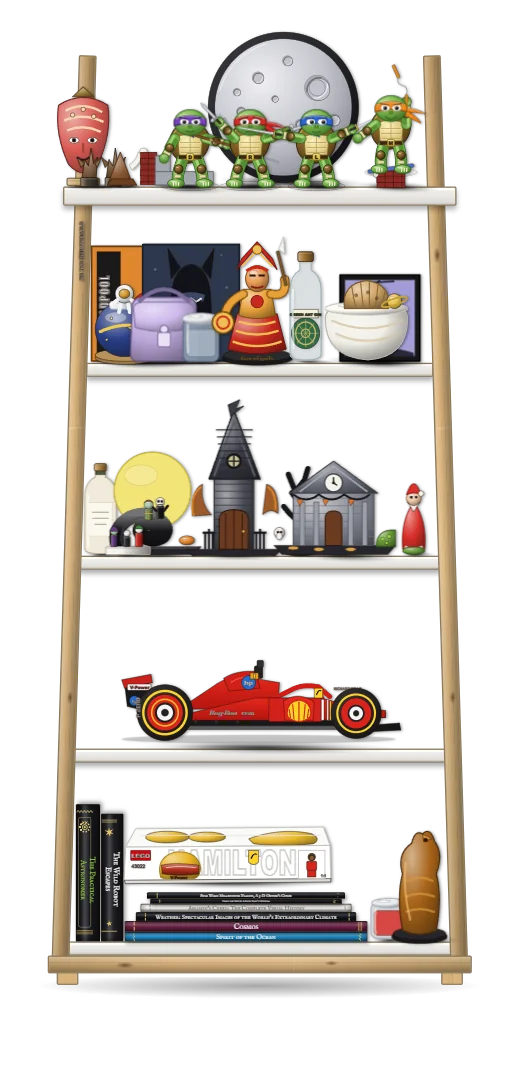
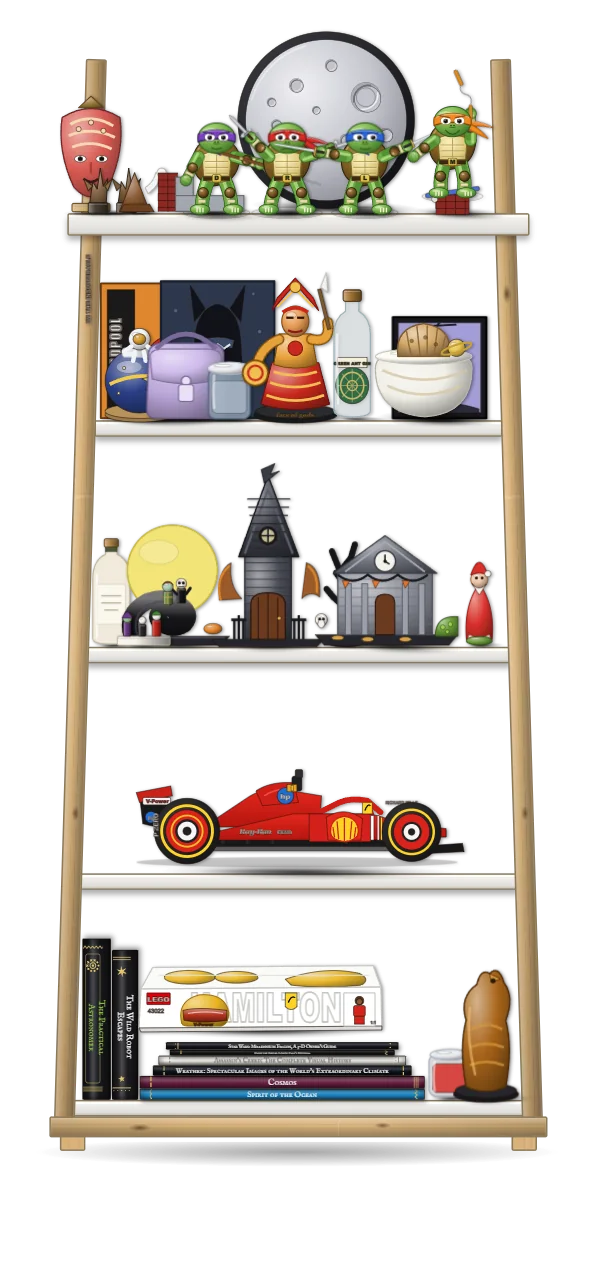
Dungeon v2.21.16
Library: an opened bookcase starts at 90% of the window height; Shelf 3 opens tucked, with depth; a visible scrollbar on the card.

Changed region(s): [[0.0608, 0.0, 0.9125, 0.9358]]

diff --git a/assets/js/library.js b/assets/js/library.js
@@ -310,7 +310,7 @@
           msg=document.getElementById('lib-msg'),info=document.getElementById('lib-info');
     const boxes=CASES.map((c,i)=>{const b=document.createElement('div');b.className='lb-box'+(c.wood?' lb-'+c.wood:'')+(c.taper?' lb-ladder':'');
       ['deep','books2','books1','books','cur'].forEach(k=>{const q=document.createElement('div');q.className='lb-plane lb-p-'+k;b.appendChild(q);b['_'+k]=q});caseEl.appendChild(b);return b});
-    let BOX=null,view='ring',focus=0,tucked=false,zs=1;
+    let BOX=null,view='ring',focus=0,tucked=CASES.some(c=>c.layers),zs=1;
     const ALL=DATA;ALL.forEach(b=>{b.a=b.a||'';b.p=b.p||'';b.n=b.n||'';b.an=b.an||'';b.pl=b.pl||'up';b.c2=b.c2||'#F4F2EC';b.cn=b.cn||'unsorted';b.g=b.g||'Unsorted'});
     const books=ALL.filter(b=>!b.pile),PILE={};
     const seenEmb=new Set();
@@ -440,6 +440,7 @@
       if(sendTo)a.href='mailto:'+sendTo+'?subject='+encodeURIComponent('A shelf arrangement for your library')+'&body='+encodeURIComponent('Here is how I would arrange your shelves:\n\n'+shareUrl())}
     try{manual=dec(localStorage.getItem('dungeon-library-manual'+KS)||'')}catch(err){manual=null}
 
+    const OPEN=1;
     let scale=1,zoom=1,caseW=600,caseH=600,current='shelved';
     /* A book's thickness is an estimate, so on the real shelves every row is stretched a little (never more than a third) until it
        reaches both ends: a shelf in a house has no free centimetre. setW changes a book that is already drawn. */
@@ -671,7 +672,7 @@
       Object.keys(by).forEach(k=>{const g=G[k];if(!g)return;const l=L[k]||{},list=by[k],right=l.restX!=null?l.restX-6:g.colW-PAD,left=PAD+3,R=right-left,spot={};
         const fr=list.filter(c=>!c.lean&&!c.po.back&&!c.po.on),bk=list.filter(c=>!c.lean&&c.po.back),on=list.filter(c=>!c.lean&&c.po.on);
         const fw=c=>c.po.fw||1,bw=c=>c.po.bw||.8,cap=c=>(c.po.w||170)*(tk?1.7:2.1);let x=left;
-        if(tk){const S=fr.reduce((a,c)=>a+fw(c),0)||1;fr.forEach(c=>{const W=Math.min(cap(c),R*fw(c)/S-4);rePile(c,W);c._ax=x;spot[c.pile]={x,w:c.w};x+=R*fw(c)/S});
+        bk.forEach(c=>{c.dy=(c.dy0||0)+(tk?12:0)});if(tk){const S=fr.reduce((a,c)=>a+fw(c),0)||1;fr.forEach(c=>{const W=Math.min(cap(c),R*fw(c)/S-4);rePile(c,W);c._ax=x;spot[c.pile]={x,w:c.w};x+=R*fw(c)/S});
           bk.forEach((c,i)=>{const h=spot[fr[i%Math.max(1,fr.length)].pile]||{x:left,w:R/2};rePile(c,h.w-8);c._ax=h.x+4;spot[c.pile]={x:c._ax,w:c.w}})}
         else{const all=fr.concat(bk),S=all.reduce((a,c)=>a+(c.po.back?bw(c):fw(c)),0)||1;all.forEach(c=>{const wt=c.po.back?bw(c):fw(c),W=Math.min(cap(c),R*wt/S-4);rePile(c,W);c._ax=x;spot[c.pile]={x,w:c.w};x+=R*wt/S})}
         on.forEach(c=>{const h=spot[c.po.on];if(!h)return;rePile(c,h.w*(c.po.w||140)/(PILE[c.po.on].w||170));c._ax=h.x+(h.w-c.w+8)/2;spot[c.pile]={x:c._ax,w:c.w}});
@@ -753,7 +754,7 @@
       geos=[];G={};sortSel.value=m.pat||m.own?'':mode;patSel.value=m.pat?mode:'';menus.forEach(x=>x.update());
       for(let c=0;c<CASES.length;c++){const n=CASES[c].n,st=!!CASES[c].straight,bx=boxes[c],LM=24,cx=LM,ty=STUFF,bot=ty+TB+n*ROW-30,D=DEPTH,
           colW=Math.max(ownW(c)?(CASES[c].w||420):(m.real&&hasL(c))?420:FIXW,...L.slice(CS[c],CS[c]+n).map(l=>l.width)),CW=colW+2*SIDE,BW=LM+CW+40;
-        BOX=bx;bx._w=BW;bx._h=STUFF+TB+n*ROW+FOOT+34+44;bx.style.width=BW+'px';bx.style.height=bx._h+'px';
+        bx.classList.toggle('lb-tucked',!!tk);BOX=bx;bx._w=BW;bx._h=STUFF+TB+n*ROW+FOOT+34+44;bx.style.width=BW+'px';bx.style.height=bx._h+'px';
         /* Real depth: two side panels and a board at every level run back from the front edge to the back panel */
         const tp=+CASES[c].taper||0,rowW=rw=>tp?colW*(1-tp*(n-1-rw)/Math.max(1,n-1)):colW,lean2=tp?Math.atan((colW*tp/2)/(bot-ty-8))/RAD:0;
         const side=x=>{const d=mk('side',x,ty+4,D,bot+20-ty);d.style.transformOrigin='0 50%';d.style.transform='rotateY(90deg)'},
@@ -826,7 +827,9 @@
     zr.onclick=resetZoom;
     function fit(){const vw=vp.clientWidth,col=(root.getBoundingClientRect&&root.getBoundingClientRect().width)||vw;let base;
       /* The landing fits the row of bookcases to the text column, a little wider if it must. An open bookcase is half the column wide. */
-      if(cols!==2)base=(vw-16)/caseW;else if(CTX.landing)base=Math.min(col*1.1,vw-32)/caseW;else base=Math.min((col/2)/(CTX.stdW||caseW),(vw-32)/caseW);
+      if(cols!==2)base=(vw-16)/caseW;else if(CTX.landing)base=Math.min(col*1.1,vw-32)/caseW;else base=Math.min((col/2)/(CTX.stdW||caseW),(vw-32)/caseW)*OPEN;
+      /* An opened bookcase starts with its whole height at 90% of the window (and never wider than the window), so every row can be seen; zooming then makes it as big as you like, and it grows past the sides. */
+      if(cols===2&&!CTX.landing)base=Math.min((vw-32)/caseW,window.innerHeight*.9/caseH);
       const s=base*zoom;scale=s;caseEl.style.width=caseW+'px';caseEl.style.height=caseH+'px';
       if(CTX.landing){caseEl.style.zoom='';caseEl.style.transform='scale('+s+')'}else{caseEl.style.transform='';caseEl.style.zoom=s}
       sizer.style.width=Math.ceil(caseW*s)+'px';sizer.style.height=Math.ceil(caseH*s)+'px';

diff --git a/assets/css/library.css b/assets/css/library.css
@@ -120,6 +120,10 @@ html.lib-zoomed, html.lib-zoomed body { overflow-x: auto; }
     box-shadow: 0 10px 28px rgba(0, 0, 0, 0.35);
 }
 #lib-info.lb-on { display: flex; }
+#lib-info { box-sizing: border-box; overscroll-behavior: contain; scrollbar-width: thin; scrollbar-color: var(--graphite) transparent; }
+#lib-info::-webkit-scrollbar { width: 9px; }
+#lib-info::-webkit-scrollbar-track { background: transparent; }
+#lib-info::-webkit-scrollbar-thumb { background: var(--graphite); border-radius: 6px; border: 2px solid var(--paper); }
 #lib-info h2 { margin: 0 0 0.25rem; font-size: 1.05rem; font-weight: 600; line-height: 1.25; }
 #lib-info p { margin: 0 0 0.15rem; font-size: 0.875rem; color: var(--graphite); }
 #lib-info .lb-f { flex: 1; min-width: 0; }
@@ -263,6 +267,9 @@ html.lib-zoomed .lb-glow0, html.lib-zoomed .lb-glow1, html.lib-zoomed .lb-glow2 
 .lb-curio svg { display: block; overflow: visible; filter: drop-shadow(2px 1px 2px rgba(0, 0, 0, 0.4)); }
 .lb-curio:focus-visible { outline: 2px solid #E3B23C; outline-offset: 3px; }
 /* a leaning comic is only its painted cover: the clear corners of its box let a click through to the pile behind */
+/* Where the layers are tucked together, the ones behind stand a little higher, smaller and darker, so the case has depth */
+.lb-tucked .lb-p-books1 { transform: translate(5px, -10px) scale(0.985); transform-origin: 50% 100%; filter: brightness(0.8); }
+.lb-tucked .lb-p-books2 { transform: translate(10px, -20px) scale(0.97); transform-origin: 50% 100%; filter: brightness(0.64); }
 .lb-curio.lb-lean { pointer-events: none; }
 .lb-curio.lb-lean svg g[clip-path] { pointer-events: auto; cursor: pointer; }
 .lb-nocurios .lb-curio:not(.lb-pile) { display: none; }

diff --git a/CHANGELOG.md b/CHANGELOG.md
@@ -1,5 +1,11 @@
 # Changelog
 
+## 2.21.16
+
+- **An opened bookcase starts small enough to see all of it.** It had been drawn so large that on a big monitor only one or two rows showed. Now its whole height starts at 90% of the window, and it is never wider than the window; zooming (Ctrl and the wheel, or a pinch) makes it as big as you like and it grows past the sides. On a phone it is as before.
+- **Shelf 3 opens as it really is.** Its three layers of books are tucked together, which makes it about a third narrower, instead of lying side by side across the whole page. The layers behind stand a little higher, smaller and darker, so the case has depth. "Show every book" spreads them out as before.
+- **The pile card has a scrollbar you can see**, and no longer spills past the left edge of a phone.
+
 ## 2.21.15
 
 - **The leaning comics look like comics.** They were bent and had a folded corner, which made them look like posters. They are now stapled booklets: a spine with two staples, the pages showing along the edges, hardly any bend, a shadow, and a second comic leaning behind each. The folded corners are gone.
